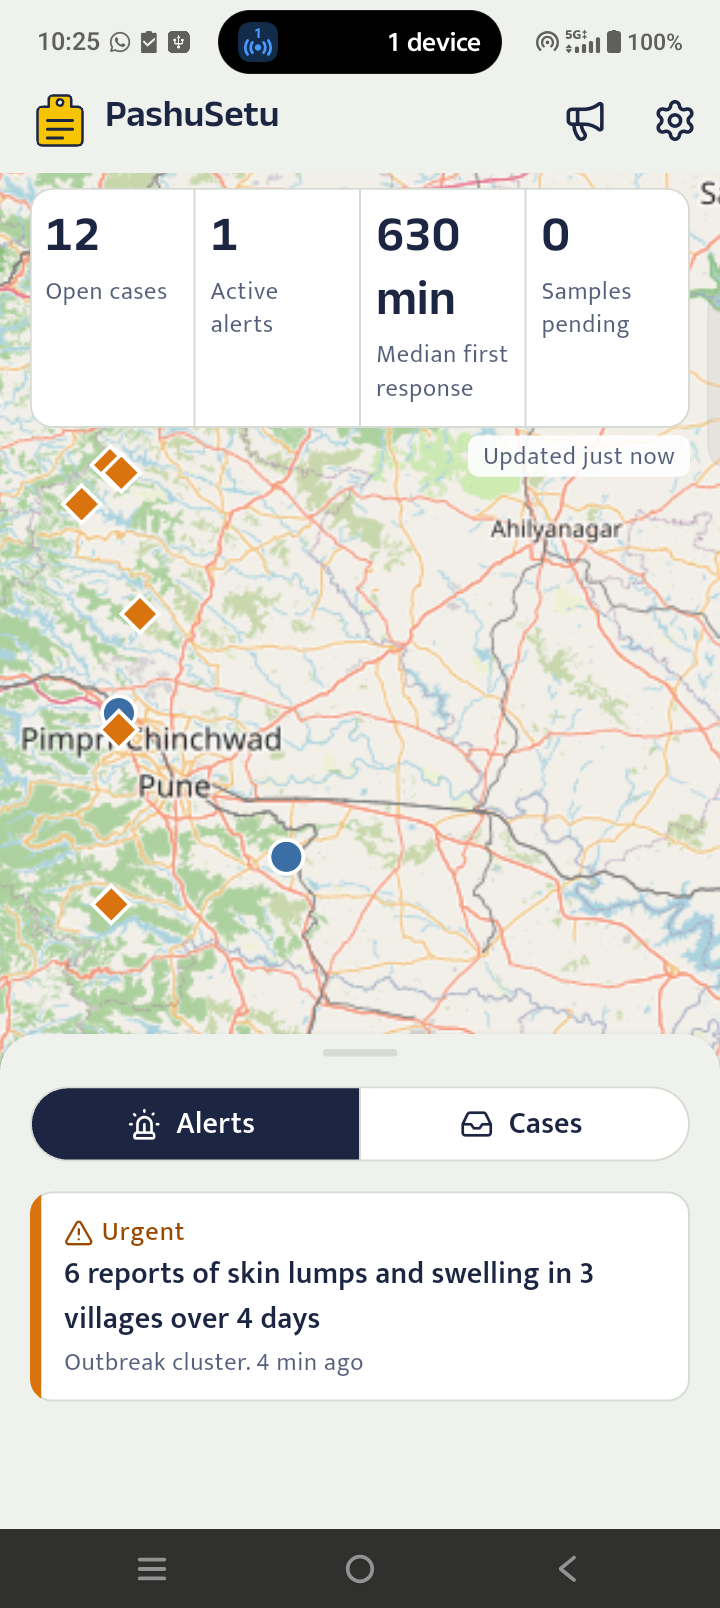
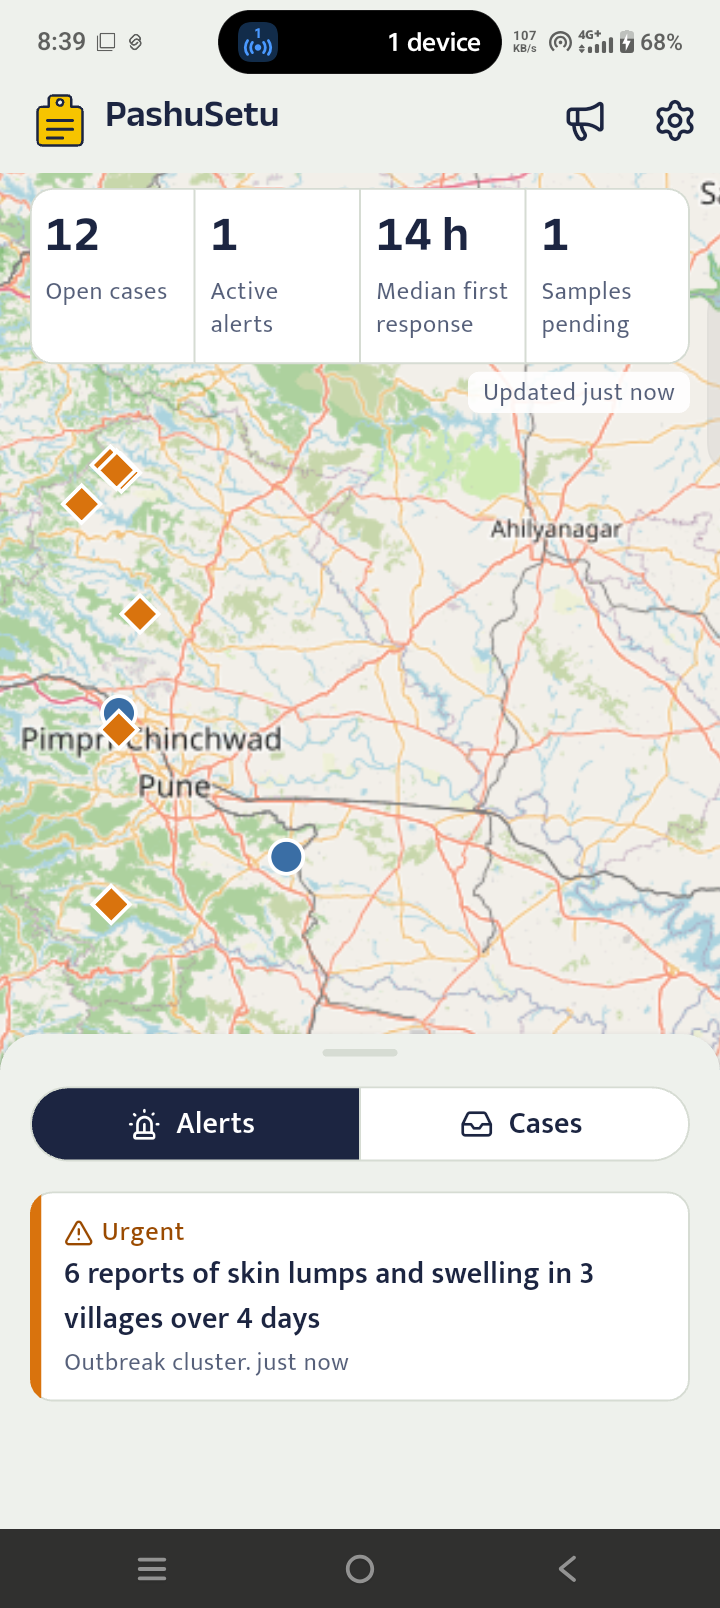
phase-8: officer map, alerts, case detail, lab QR loop, advisories
Finishes Phase 8: dashboard KPI in hours past 90 min, expanded dropdowns,
safe-area bottom sheets, gallery photo upload, and the lab loop verified
on the phone (scan by code, received, positive result).

diff --git a/mobile/lib/features/officer/dashboard_screen.dart b/mobile/lib/features/officer/dashboard_screen.dart
@@ -163,7 +163,7 @@ class _Kpis extends ConsumerWidget {
       KpiStrip(items: [
         KpiItem(value: '${summary?['open_cases'] ?? '–'}', label: l10n.kpiOpenCases),
         KpiItem(value: '${summary?['active_alerts'] ?? '–'}', label: l10n.kpiActiveAlerts),
-        KpiItem(value: median == null ? '–' : l10n.minutesShort(median), label: l10n.kpiMedianResponse),
+        KpiItem(value: median == null ? '–' : _duration(l10n, median), label: l10n.kpiMedianResponse),
         KpiItem(value: '${summary?['samples_pending'] ?? '–'}', label: l10n.kpiSamplesPending),
       ]),
       Align(
@@ -178,6 +178,10 @@ class _Kpis extends ConsumerWidget {
     ]);
   }
 }
+
+/// "45 min" under 1.5 hours, otherwise "22 h", so the KPI stays one short word.
+String _duration(AppLocalizations l10n, int minutes) =>
+    minutes < 90 ? l10n.minutesShort(minutes) : l10n.hoursShort((minutes / 60).round());
 
 class _AlertList extends ConsumerWidget {
   const _AlertList();

diff --git a/mobile/lib/features/officer/advisory_composer_screen.dart b/mobile/lib/features/officer/advisory_composer_screen.dart
@@ -130,6 +130,8 @@ class _AdvisoryComposerScreenState extends ConsumerState<AdvisoryComposerScreen>
         padding: const EdgeInsets.fromLTRB(AppSpacing.screenPadding, AppSpacing.sm, AppSpacing.screenPadding, AppSpacing.xxxl),
         children: [
           DropdownButtonFormField<String>(
+            // Long names must shrink instead of overflowing the field.
+            isExpanded: true,
             initialValue: _template,
             decoration: InputDecoration(labelText: l10n.messageLabel, border: const OutlineInputBorder()),
             items: [

diff --git a/mobile/lib/features/lab/lab_screens.dart b/mobile/lib/features/lab/lab_screens.dart
@@ -185,6 +185,8 @@ class _ResultFormState extends ConsumerState<_ResultForm> {
         if (_result == 'positive') ...[
           const SizedBox(height: AppSpacing.md),
           DropdownButtonFormField<String>(
+            // Long names must shrink instead of overflowing the field.
+            isExpanded: true,
             initialValue: _disease,
             decoration: InputDecoration(labelText: l10n.whichDisease, border: const OutlineInputBorder()),
             items: [

diff --git a/mobile/lib/features/cases/case_detail_screen.dart b/mobile/lib/features/cases/case_detail_screen.dart
@@ -258,6 +258,8 @@ class _ActionsState extends ConsumerState<_Actions> {
     final vetId = await showModalBottomSheet<String>(
       context: context,
       isScrollControlled: true,
+      // Keep tall sheets below the status bar.
+      useSafeArea: true,
       shape: const RoundedRectangleBorder(borderRadius: BorderRadius.vertical(top: Radius.circular(AppRadius.sheetTop))),
       builder: (context) => DraggableScrollableSheet(
         expand: false,

diff --git a/mobile/lib/features/report/report_flow_screen.dart b/mobile/lib/features/report/report_flow_screen.dart
@@ -268,6 +268,8 @@ class _AnimalStep extends ConsumerWidget {
     final chosen = await showModalBottomSheet<Village>(
       context: context,
       isScrollControlled: true,
+      // Keep tall sheets below the status bar.
+      useSafeArea: true,
       shape: const RoundedRectangleBorder(borderRadius: BorderRadius.vertical(top: Radius.circular(AppRadius.sheetTop))),
       builder: (context) => DraggableScrollableSheet(
         expand: false,

diff --git a/mobile/lib/l10n/app_localizations.dart b/mobile/lib/l10n/app_localizations.dart
@@ -1383,6 +1383,12 @@ abstract class AppLocalizations {
   /// In en, this message translates to:
   /// **'Upload from gallery'**
   String get uploadPhoto;
+
+  /// No description provided for @hoursShort.
+  ///
+  /// In en, this message translates to:
+  /// **'{count} h'**
+  String hoursShort(int count);
 }
 
 class _AppLocalizationsDelegate

diff --git a/mobile/lib/l10n/app_localizations_hi.dart b/mobile/lib/l10n/app_localizations_hi.dart
@@ -729,4 +729,9 @@ class AppLocalizationsHi extends AppLocalizations {
 
   @override
   String get uploadPhoto => 'गैलरी से फ़ोटो चुनें';
+
+  @override
+  String hoursShort(int count) {
+    return '$count घंटे';
+  }
 }

diff --git a/mobile/lib/l10n/app_localizations_mr.dart b/mobile/lib/l10n/app_localizations_mr.dart
@@ -730,4 +730,9 @@ class AppLocalizationsMr extends AppLocalizations {
 
   @override
   String get uploadPhoto => 'गॅलरीतून फोटो निवडा';
+
+  @override
+  String hoursShort(int count) {
+    return '$count तास';
+  }
 }

diff --git a/mobile/lib/l10n/app_localizations_en.dart b/mobile/lib/l10n/app_localizations_en.dart
@@ -731,4 +731,9 @@ class AppLocalizationsEn extends AppLocalizations {
 
   @override
   String get uploadPhoto => 'Upload from gallery';
+
+  @override
+  String hoursShort(int count) {
+    return '$count h';
+  }
 }

diff --git a/docs/design_notes.md b/docs/design_notes.md
@@ -32,3 +32,8 @@ Design decisions, and what visual QA found and changed. See spec Section 9 (the 
 | 2026-09-30 | Real phone, report step 4 | Selected "Today" chip had ink text on ink background (invisible) | The chip label colour now follows the selection |
 | 2026-09-30 | Real phone, home with the "Offline, saved on phone" pill | App bar overflowed: the app name plus a long pill did not fit | With the sync pill, the app bar shows only the ear-tag mark |
 | 2026-09-30 | Real phone, triage result offline (`screenshots/phase4_*.png`) | None. Headline, severity, bars, why chips, numbered steps with Call 1962, the not-a-diagnosis line and the saved-on-phone line all fit | No change |
+| 2026-09-30 | Real phone, officer dashboard (`screenshots/phase8_officer_dashboard.png`) | Median response KPI showed "1305 min", which wrapped and was hard to read | Shows minutes under 90, hours above ("22 h") |
+| 2026-09-30 | Real phone, advisory composer and lab result form | Long Hindi template and disease names overflowed the dropdowns | Dropdowns use `isExpanded`, so text ellipsizes inside the field |
+| 2026-09-30 | Real phone, tall bottom sheets (assign vet, lab result) | Sheet top slid under the status bar | Sheets open with `useSafeArea: true` |
+| 2026-09-30 | Real phone, case timeline | Events with the same timestamp were listed alphabetically ("lab_received" before "sample_collected") | Server sorts by time, then lifecycle order |
+| 2026-09-30 | Real phone, lab scan by typed code + result (`screenshots/phase8_lab_result.png`) | None. Prefilled PS-S- prefix, received state, Positive/LSD form, "Result saved" snackbar, list empties | No change |
